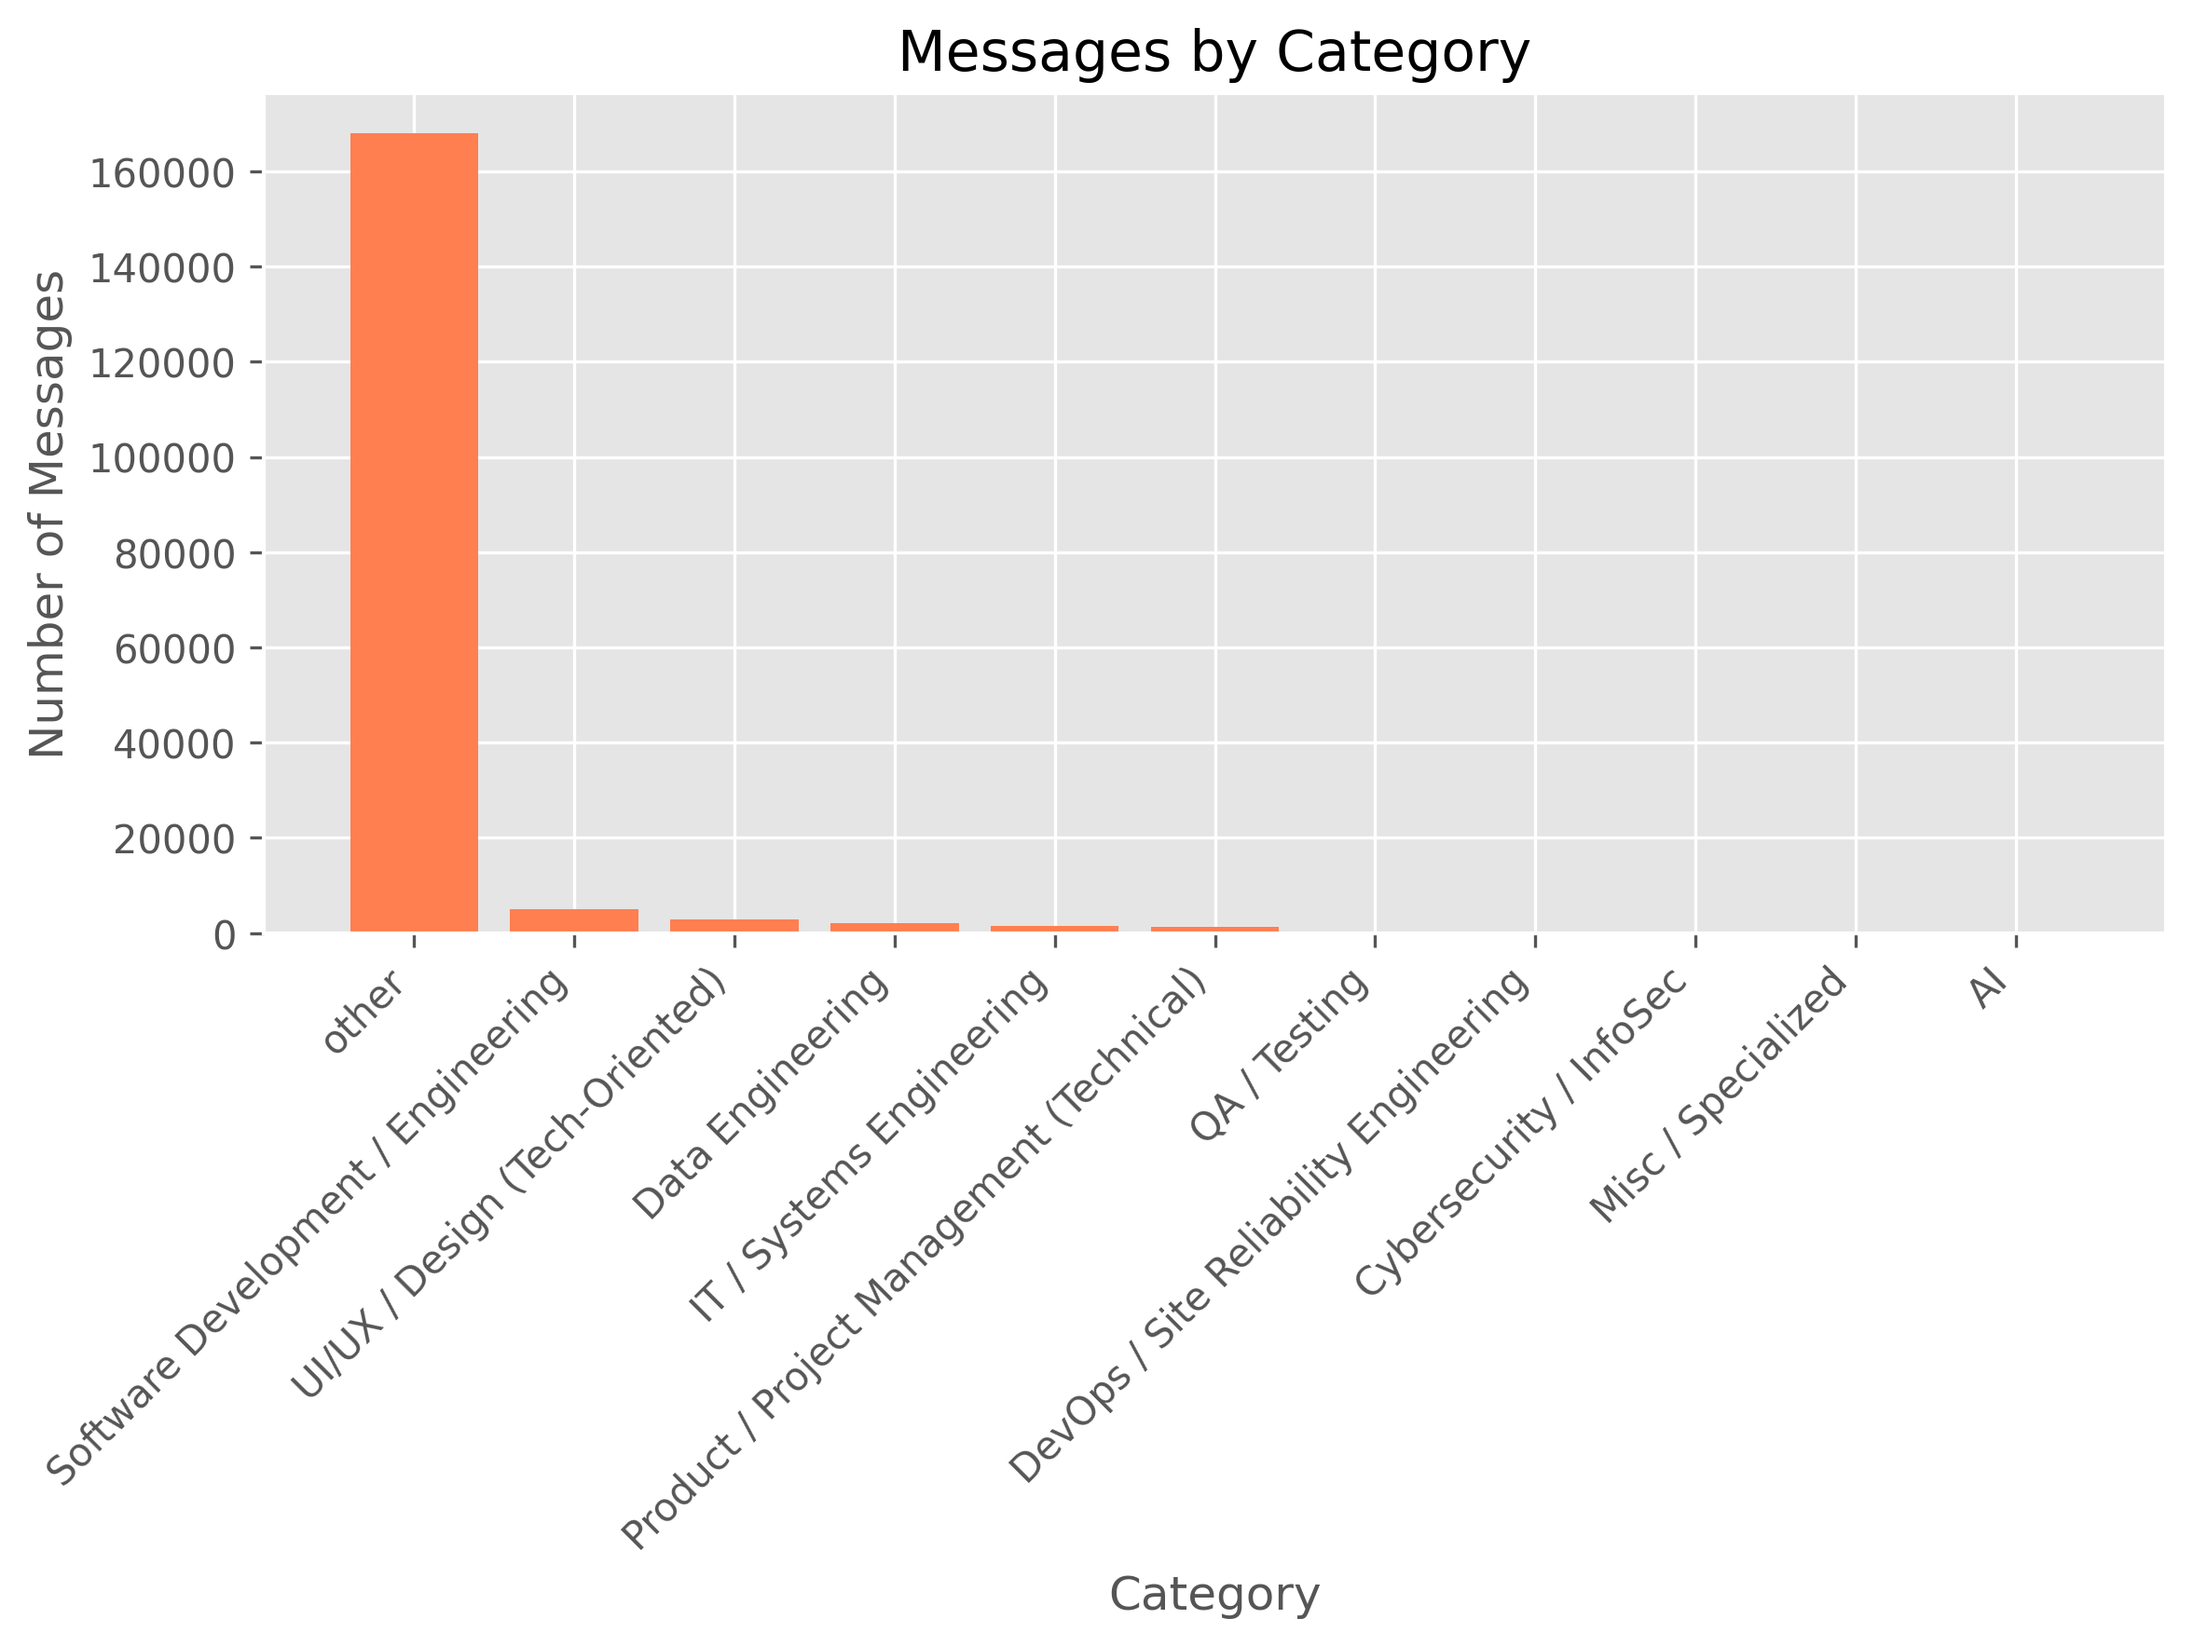
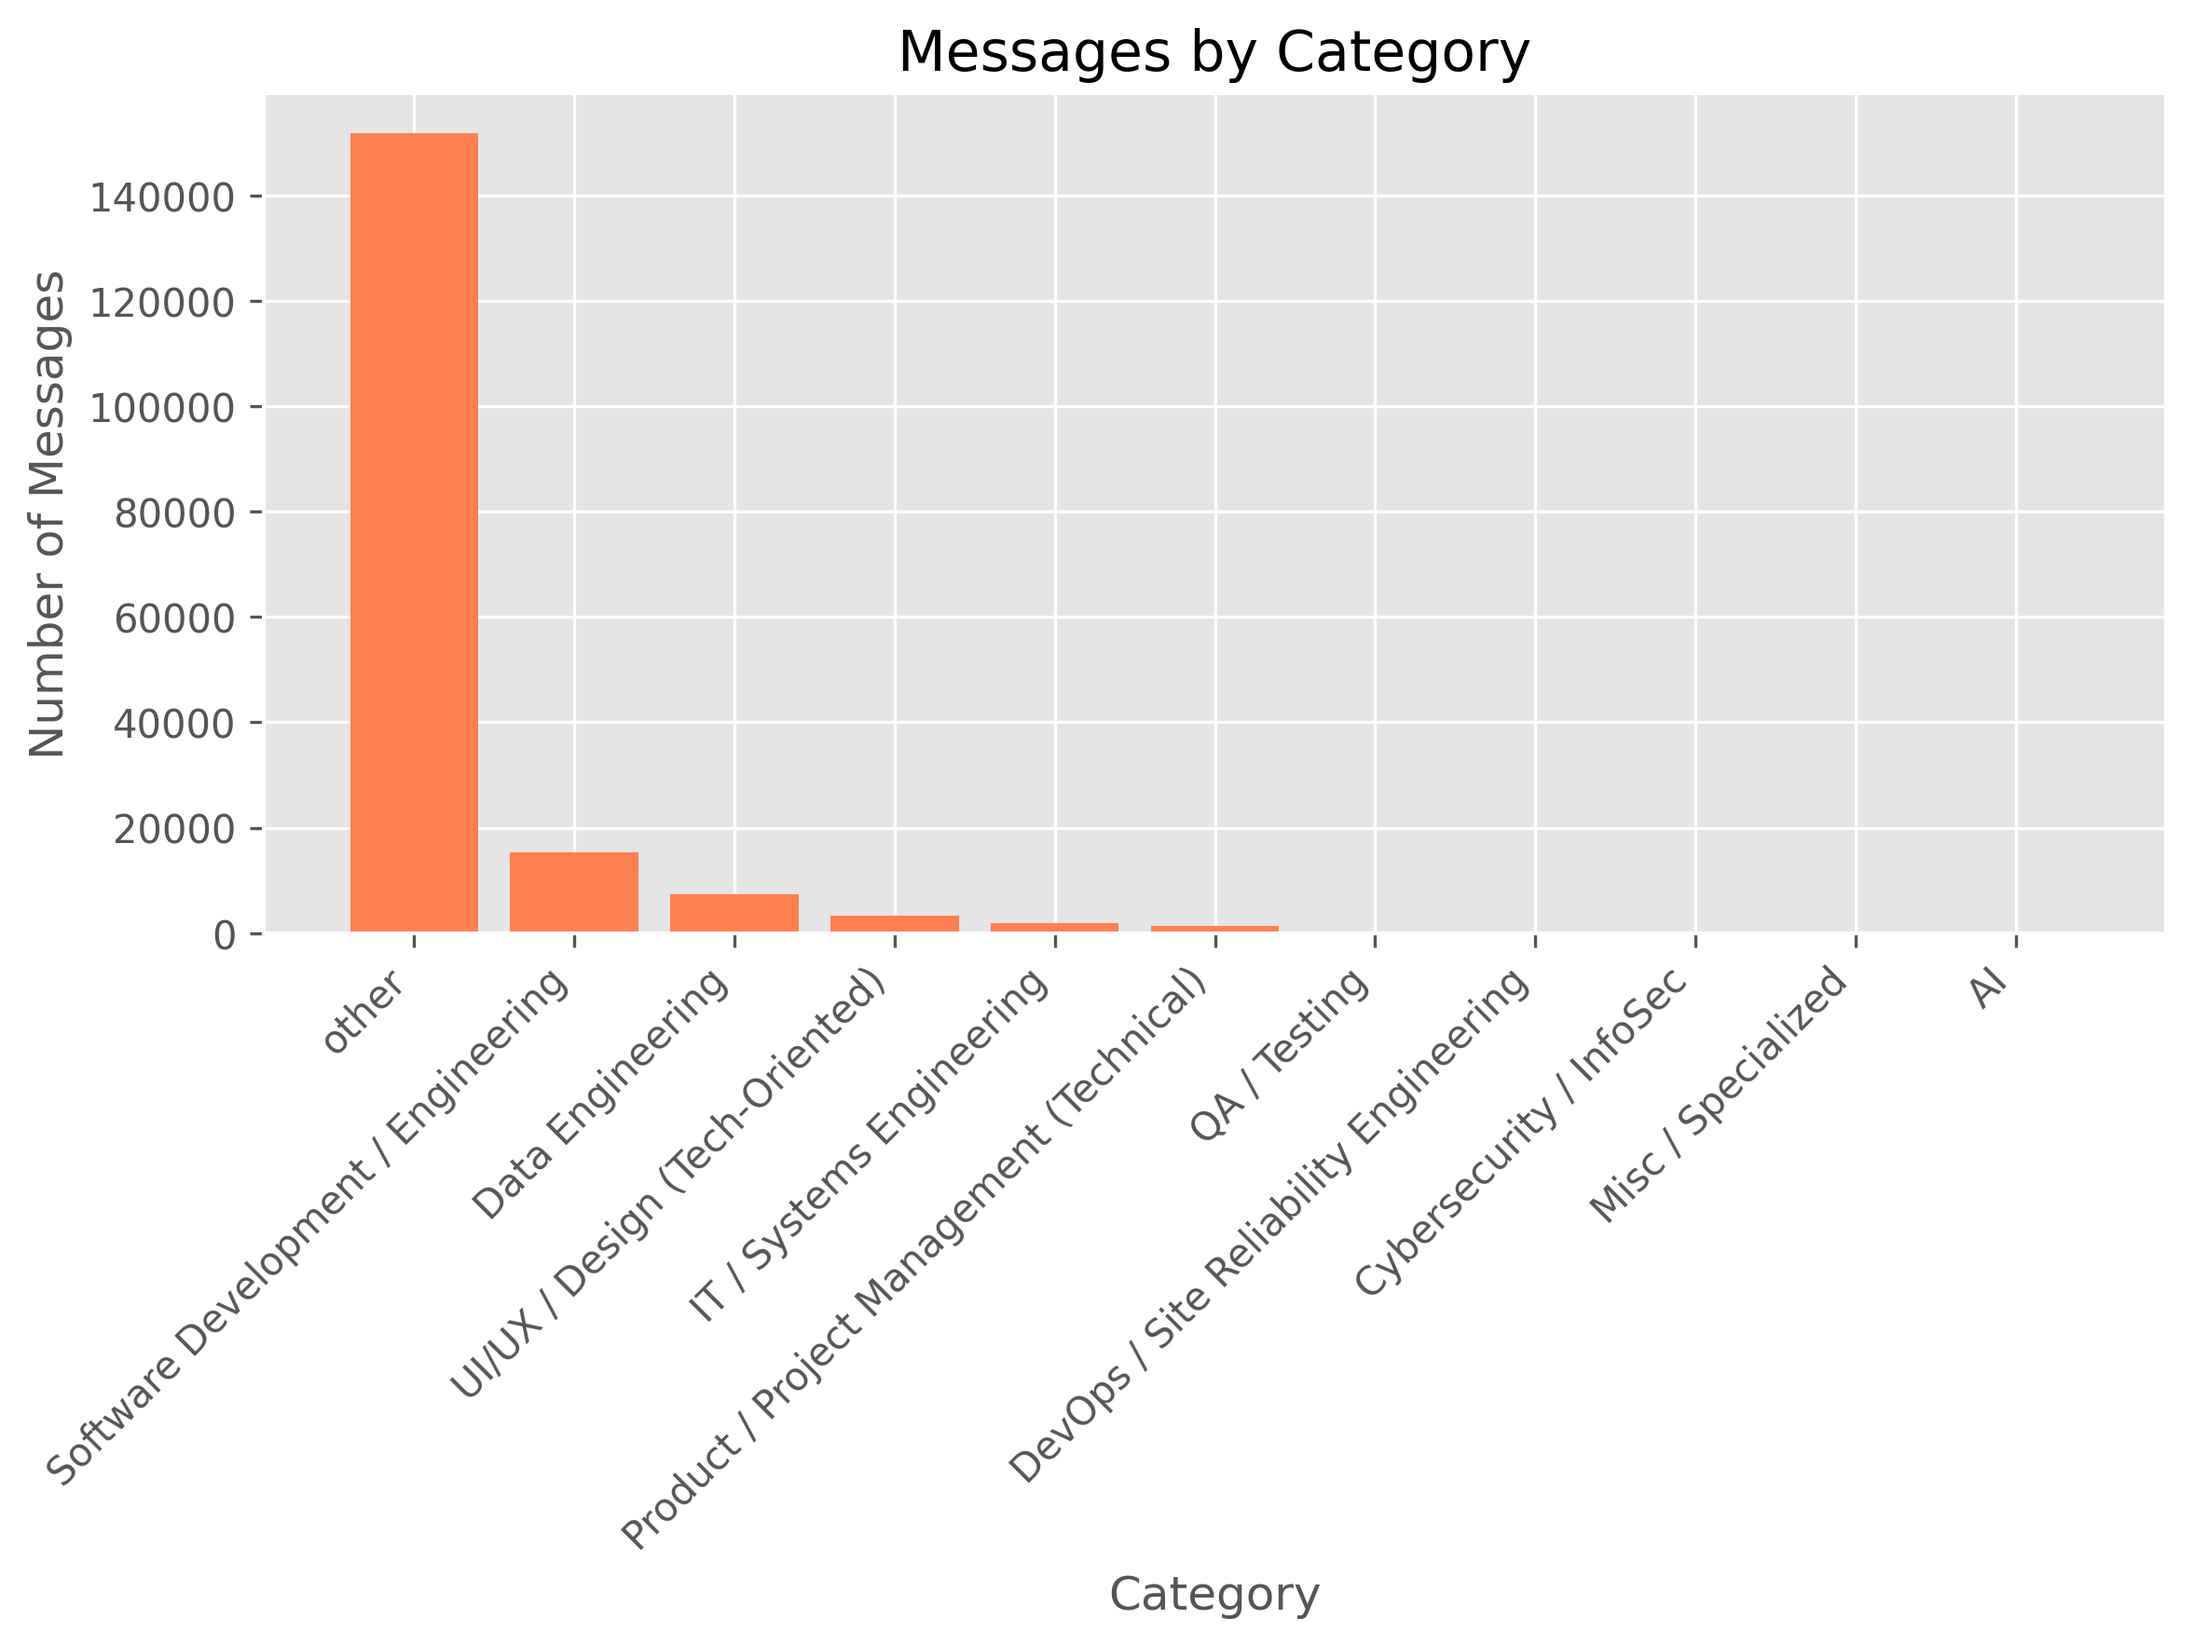
update

diff --git a/scraper.py b/scraper.py
@@ -22,21 +22,21 @@ class Config:
         self.PHONE_NUMBER = '+49151759448'
         self.MONGO_URI = "mongodb://localhost:27017/"
         self.DB_NAME = "telegram"
-        self.LIMIT = 1500
-        self.SCRAPE_TELEGRAM= False
-        self.SCRAPE_AFRIWORKET= False
-        self.SCRAPE_HAHU_WEB= False
-        self.ADD_CATEGORY=False
-        self.FIX_TITLE_AFRIWORK=False
+        self.LIMIT = 500
+        self.SCRAPE_TELEGRAM= True
+        self.SCRAPE_AFRIWORKET= True
+        self.SCRAPE_HAHU_WEB= True
+        self.ADD_CATEGORY=True
+        self.FIX_TITLE_AFRIWORK=True
         self.FIX_TITLE_GEEZJOB=True
-        self.FIX_TITLE_LINKEDIN=False
-        self.FIX_TITLE_HAHU_TELEGRAM=False
+        self.FIX_TITLE_LINKEDIN=True
+        self.FIX_TITLE_HAHU_TELEGRAM=True
         self.EXPORT_CHART=True
-        self.EXPORT_AFRIWORK=False
-        self.EXPORT_ALL_JOBS=False
-        self.EXPORT_HAHU_WEB=False
-        self.EXPORT_LINKEDIN=False
-        self.CHANNEL_USERNAME_LIST = ['hahujobs','freelance_ethio', 'jobs_in_ethio', 'geezjob']
+        self.EXPORT_AFRIWORK=True
+        self.EXPORT_ALL_JOBS=True
+        self.EXPORT_HAHU_WEB=True
+        self.EXPORT_LINKEDIN=True
+        self.CHANNEL_USERNAME_LIST = ['hahujobs','freelance_ethio', 'geezjob']
 
 
 class TelegramChannelScraper:
@@ -374,22 +374,22 @@ async def main():
         print("Successfully connected to Telegram!")
         
         if config.SCRAPE_TELEGRAM:
-            print("\nTELEGRAM CHANNEL SCRAPING")
+            print("\n TELEGRAM CHANNEL SCRAPING")
             print("-" * 40)
             
             channel_usernames = config.CHANNEL_USERNAME_LIST
             total_channels = len(channel_usernames)
             
             for idx, channel_username in enumerate(channel_usernames, 1):
-                print(f"\nProcessing Channel {idx}/{total_channels}: @{channel_username}")
+                print(f"\n Processing Channel {idx}/{total_channels}: @{channel_username}")
                 
                 # Get channel info
-                print(f"   Fetching channel information...")
+                print(f" Fetching channel information...")
                 channel_info = await scraper.get_channel_info(channel_username)
                 
                 if channel_info:
                     print(f"   Channel: {channel_info['title']}")
-                    print(f"   Participants: {channel_info['participants_count']:,}")
+                    # print(f"   Participants: {channel_info['participants_count']:,}")
                     
                     if channel_info['description']:
                         desc_preview = channel_info['description'][:100]

diff --git a/job_postings_aggregation.py b/job_postings_aggregation.py
@@ -149,7 +149,7 @@ class JobPostingsVisualizer:
             plt.tight_layout()
             plt.savefig(f'job_postings_telegram_by_date.png', dpi=300, bbox_inches='tight')
             
-
+        self.collection.delete_many({"category": {"$eq": None}})
         # 3⃣ By category
         pipeline_category = [
             {"$group": {"_id": "$category", "count": {"$sum": 1}}},
